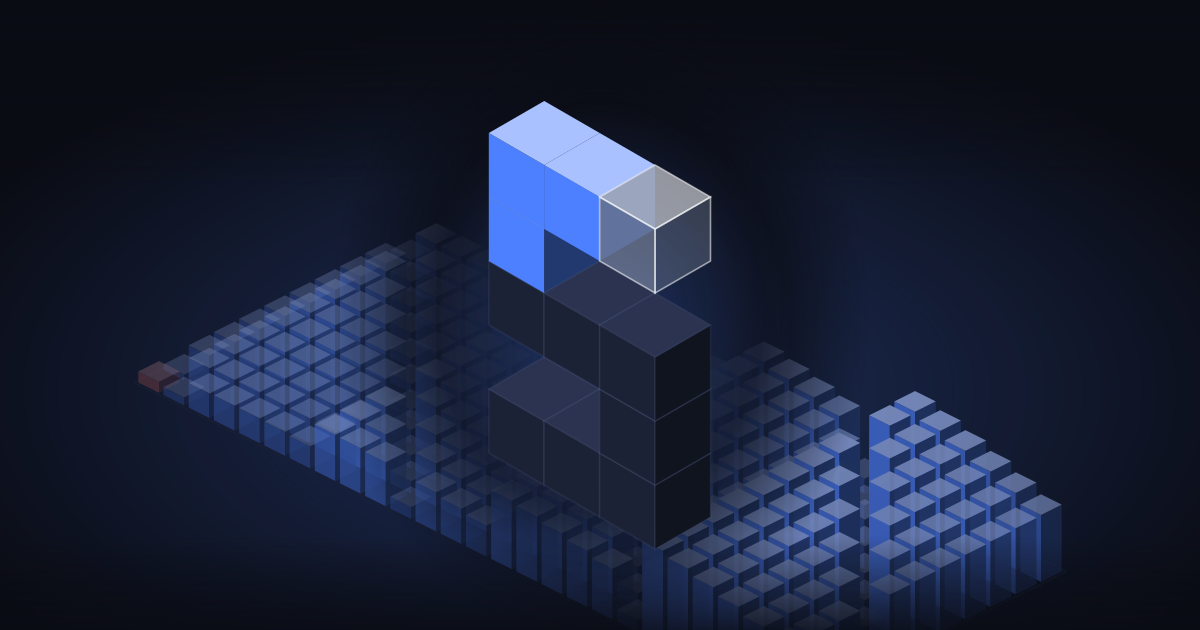
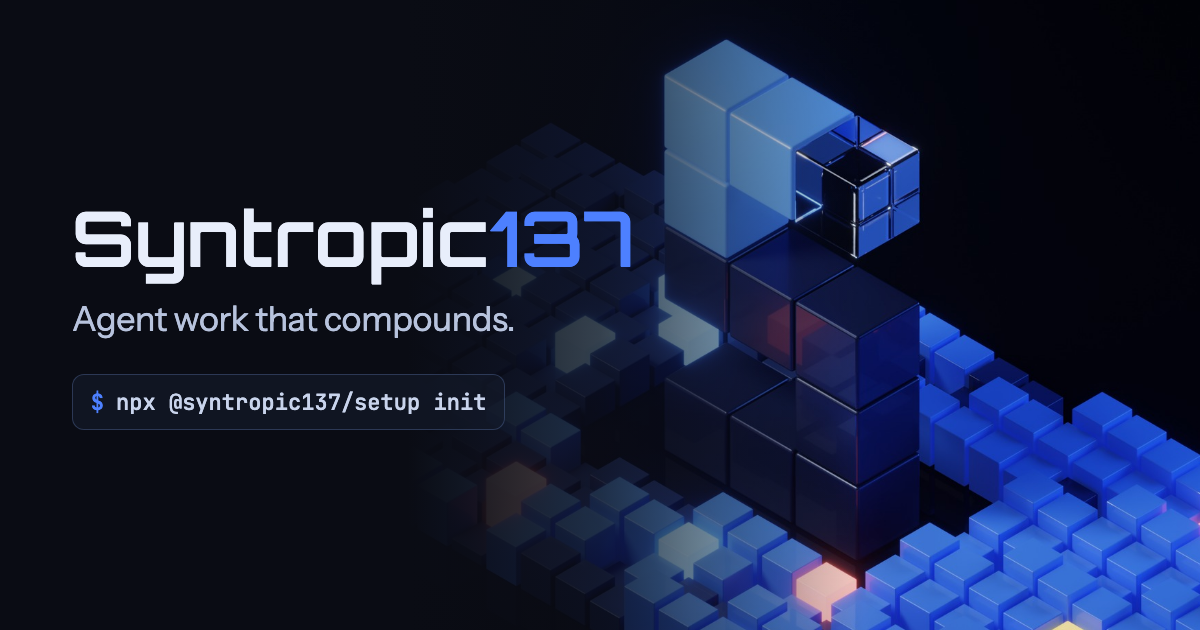
feat(brand): share image from the Blender render with the wordmark (kit 2.3.0)
og-image.png (1200x630) and the GitHub social preview (1280x640) are now
the Blender render of the S in the run city with 'Syntropic137', 'Agent
work that compounds.' and the install command, rendered from
design/brand/og/og.html with the real fonts by og/render.sh. The landing
page serves the new image; og:image alt text updated. The text-free
vector version moves to og-image-vector.*.

diff --git a/design/brand/og/og.html b/design/brand/og/og.html
@@ -1,0 +1,36 @@
+<!doctype html>
+<!-- Social share image (Open Graph / Twitter card), brand kit 2.3.0.
+     Render with design/brand/og/render.sh; size comes from ?w=&h= (default 1200x630).
+     The render is the Blender hero still (assets/blender-hero/stills/syn137-hero-4k-dark.png in the
+     system monorepo), downsized to hero-1920.jpg. Fonts are the landing page's self-hosted woff2. -->
+<meta charset="utf-8">
+<style>
+@font-face{font-family:Orbitron;src:url(../../../apps/syn-landing/public/fonts/orbitron-latin.woff2) format("woff2");font-weight:400 900}
+@font-face{font-family:"Instrument Sans";src:url(../../../apps/syn-landing/public/fonts/instrument-sans-latin.woff2) format("woff2");font-weight:400 700}
+@font-face{font-family:"JetBrains Mono";src:url(../../../apps/syn-landing/public/fonts/jetbrains-mono-latin.woff2) format("woff2");font-weight:400 800}
+*{margin:0;box-sizing:border-box}
+html,body{background:#0A0C14;overflow:hidden}
+.card{position:relative;overflow:hidden;background:#0A0C14;color:#E8EEFB;font-family:"Instrument Sans",sans-serif}
+.render{position:absolute;right:-20.8%;top:-6.3%;height:117.5%}
+.fade{position:absolute;inset:0;background:linear-gradient(90deg,#0A0C14 0%,#0A0C14 34%,rgba(10,12,20,.75) 50%,rgba(10,12,20,0) 72%)}
+.copy{position:absolute;left:6%;top:0;bottom:0;display:flex;flex-direction:column;justify-content:center}
+.wm{font-family:Orbitron;font-weight:600;letter-spacing:.01em;line-height:1;font-size:calc(var(--h) * .1206)}
+.wm b{color:#4D80FF;font-weight:600}
+.tag{font-size:calc(var(--h) * .054);color:#B7C3DD;letter-spacing:-.01em;margin-top:calc(var(--h) * .035)}
+.cmd{font-family:"JetBrains Mono";font-weight:500;font-size:calc(var(--h) * .035);color:#C9D4EC;margin-top:calc(var(--h) * .054);display:inline-flex;gap:.55em;padding:.55em .8em;border:1px solid rgba(120,150,220,.28);border-radius:12px;background:rgba(20,26,44,.6)}
+.cmd i{color:#4D80FF;font-style:normal}
+</style>
+<div class="card" id="card">
+  <img class="render" src="hero-1920.jpg" alt="">
+  <div class="fade"></div>
+  <div class="copy">
+    <div class="wm">Syntropic<b>137</b></div>
+    <div class="tag">Agent work that compounds.</div>
+    <div><div class="cmd"><i>$</i>npx @syntropic137/setup init</div></div>
+  </div>
+</div>
+<script>
+  const q = new URLSearchParams(location.search), w = +(q.get('w') || 1200), h = +(q.get('h') || 630)
+  const c = document.getElementById('card'); c.style.width = w + 'px'; c.style.height = h + 'px'; c.style.setProperty('--h', h + 'px')
+  document.body.style.width = w + 'px'; document.body.style.height = h + 'px'
+</script>

diff --git a/apps/syn-landing/index.html b/apps/syn-landing/index.html
@@ -16,12 +16,12 @@
     <meta property="og:type" content="website" />
     <meta property="og:url" content="https://syntropic137.com/" />
     <meta property="og:site_name" content="Syntropic137" />
-    <!-- Social image: the S over the run city (design/brand/og-image.png) -->
+    <!-- Social image: Blender render + wordmark (design/brand/og-image.png, from design/brand/og/render.sh) -->
     <meta property="og:image" content="https://syntropic137.com/og-image.png" />
     <meta property="og:image:type" content="image/png" />
     <meta property="og:image:width" content="1200" />
     <meta property="og:image:height" content="630" />
-    <meta property="og:image:alt" content="The Syntropic137 S, built from cubes, over an isometric city of agent runs." />
+    <meta property="og:image:alt" content="Syntropic137: agent work that compounds. The cube S standing in an isometric city of agent runs." />
     <meta name="twitter:card" content="summary_large_image" />
     <meta name="twitter:site" content="@syntropic137" />
     <meta name="twitter:title" content="Syntropic137: MIT Agentic Engineering Platform" />
@@ -30,7 +30,7 @@
       content="Self-hosted agentic engineering platform. Run Claude Code and Codex agents in isolated Docker workspaces with full observability. Every decision permanently captured."
     />
     <meta name="twitter:image" content="https://syntropic137.com/og-image.png" />
-    <meta name="twitter:image:alt" content="The Syntropic137 S, built from cubes, over an isometric city of agent runs." />
+    <meta name="twitter:image:alt" content="Syntropic137: agent work that compounds. The cube S standing in an isometric city of agent runs." />
     <link rel="canonical" href="https://syntropic137.com/" />
     <!-- Icons from design/brand/ (the S mark) -->
     <link rel="icon" href="/favicon.ico" sizes="32x32" />

diff --git a/packages/syn-ui/skyline-core/scripts/og-image.ts b/packages/syn-ui/skyline-core/scripts/og-image.ts
@@ -1,8 +1,10 @@
 /**
- * Social image (Open Graph / Twitter card): the S over the run city, from
- * the same geometry the page uses (heroCity() with the hero's sample days,
- * sMark()). Writes design/brand/og-image.svg (1200 x 630) and renders
- * design/brand/og-image.png with rsvg-convert.
+ * Vector social image: the S over the run city, from the same geometry the
+ * page uses (heroCity() with the hero's sample days, sMark()). Writes
+ * design/brand/og-image-vector.svg (1200 x 630) and renders
+ * design/brand/og-image-vector.png with rsvg-convert. The live share image
+ * (og-image.png) is the Blender render with the wordmark, from
+ * design/brand/og/render.sh.
  *
  *   pnpm --filter @syn137/skyline-core run og-image
  *
@@ -62,8 +64,8 @@ ${cityBlocks}
 `
 
 const brand = resolve(dirname(fileURLToPath(import.meta.url)), '../../../../design/brand')
-const svgPath = resolve(brand, 'og-image.svg')
-const pngPath = resolve(brand, 'og-image.png')
+const svgPath = resolve(brand, 'og-image-vector.svg')
+const pngPath = resolve(brand, 'og-image-vector.png')
 writeFileSync(svgPath, svg)
 execFileSync('rsvg-convert', ['-w', String(W), '-h', String(H), svgPath, '-o', pngPath])
 console.log(`wrote ${svgPath}\nwrote ${pngPath}`)

diff --git a/design/brand/BRAND.md b/design/brand/BRAND.md
@@ -1,6 +1,6 @@
 # Syntropic137 brand kit
 
-**Version 2.2.0, "Design V2, October 2026". Released 2026-10-09, avatar added 2026-10-10, banner layout and S uplight locked 2026-10-10.** Version in [`VERSION`](VERSION), history in [`CHANGELOG.md`](CHANGELOG.md).
+**Version 2.3.0, "Design V2, October 2026". Released 2026-10-09, avatar added 2026-10-10, banner layout and S uplight locked 2026-10-10, share image 2026-10-13.** Version in [`VERSION`](VERSION), history in [`CHANGELOG.md`](CHANGELOG.md).
 
 <p align="center">
   <img src="renders/syn137-banner-dark-1500.webp" alt="The Syntropic137 S standing in the run city, rendered in Blender" width="100%">
@@ -206,7 +206,7 @@ Full usage and fields: [`banners/README.md`](banners/README.md).
 
 ### Social image (Open Graph, Twitter card)
 
-[`og-image.png`](og-image.png) (1200 x 630, from [`og-image.svg`](og-image.svg)): the S over the run city, generated from `heroCity()` and `sMark()` by `pnpm --filter @syn137/skyline-core run og-image`. No text.
+[`og-image.png`](og-image.png) (1200 x 630): the Blender render of the S in the run city, with the wordmark, "Agent work that compounds." and the install command. Source: [`og/og.html`](og/og.html), rendered with real fonts by [`og/render.sh`](og/render.sh) (also writes the 1280 x 640 GitHub social preview and the copy in `apps/syn-landing/public/`). The older text-free vector version is [`og-image-vector.png`](og-image-vector.png), from `pnpm --filter @syn137/skyline-core run og-image`.
 
 ### Favicon and app icons
 
@@ -256,7 +256,7 @@ Every current v2 asset. Raw URLs on `main` (for use outside GitHub) take the for
 | [`avatar-transparent-1024.png`](avatar-transparent-1024.png) | <img src="avatar-transparent-512.png" alt="Avatar, transparent" height="64"> | [raw](https://raw.githubusercontent.com/syntropic137/syntropic137/main/design/brand/avatar-transparent-1024.png) |
 | [`avatar-transparent-512.png`](avatar-transparent-512.png) | | [raw](https://raw.githubusercontent.com/syntropic137/syntropic137/main/design/brand/avatar-transparent-512.png) |
 | [`social/`](social/) | Upload-ready files per place (see the table at the top) | |
-| [`og-image.svg`](og-image.svg) | | [raw](https://raw.githubusercontent.com/syntropic137/syntropic137/main/design/brand/og-image.svg) |
+| [`og-image-vector.svg`](og-image-vector.svg), [`og-image-vector.png`](og-image-vector.png) | Text-free vector version | |
 | [`og-image.png`](og-image.png) | <img src="og-image.png" alt="Social image" height="96"> | [raw](https://raw.githubusercontent.com/syntropic137/syntropic137/main/design/brand/og-image.png) |
 
 ### Renders (web cuts of the Blender stills)
@@ -327,6 +327,6 @@ Full-resolution PNG and ProRes masters live in the private system monorepo, `ass
 ## How to change the brand
 
 1. Edit the source, never the output: tokens in `packages/syn-ui/themes/src/`, geometry in `sMark.ts`, banners in `banners/repos.json`, renders through `build_hero.py`.
-2. Regenerate: icons with `rsvg-convert` (see [`README.md`](README.md)), `og-image` and `repo-banner` with pnpm, renders on the Mac mini, then cut new `renders/*.webp` from the masters.
+2. Regenerate: icons with `rsvg-convert` (see [`README.md`](README.md)), `og/render.sh` for the share image, `og-image` (vector) and `repo-banner` with pnpm, renders on the Mac mini, then cut new `renders/*.webp` from the masters.
 3. Bump [`VERSION`](VERSION) (semver): major for a new identity, minor for a new asset or surface, patch for a fix.
 4. Add an entry to [`CHANGELOG.md`](CHANGELOG.md).

diff --git a/design/brand/README.md b/design/brand/README.md
@@ -12,7 +12,8 @@ The S mark: eleven isometric cubes in one vertical plane, grid `BBG / B.. / DDD 
 | `favicon.svg`, `favicon-32x32.png` | Browser tab icon, transparent, square viewBox around the mark |
 | `app-icon.svg` | Mark on the ground colour (`--ds-color-bg`, `#0A0C14`), source for the raster icons below |
 | `apple-touch-icon.png` (180), `icon-192.png`, `icon-512.png` | iOS home screen and PWA manifest icons |
-| `og-image.svg`, `og-image.png` (1200 x 630) | Social image (Open Graph, Twitter card): the S over the run city. Generated, don't edit by hand. |
+| `og-image.png` (1200 x 630) | Social share image (Open Graph, Twitter card): Blender render + wordmark. Render with `og/render.sh`. |
+| `og-image-vector.svg`, `og-image-vector.png` | Text-free vector version: the S over the run city. Generated, don't edit by hand. |
 | `banners/<repo>.svg` (1200 x 400) | README banner per org repo, fonts embedded. Generated from `banners/repos.json`; see `banners/README.md`. |
 
 Regenerate the PNGs with `rsvg-convert`:

diff --git a/design/brand/CHANGELOG.md b/design/brand/CHANGELOG.md
@@ -2,6 +2,10 @@
 
 Versions follow semver: major for a new identity, minor for a new asset or surface, patch for a fix. The current kit is described in [BRAND.md](BRAND.md).
 
+## 2.3.0 (2026-10-13)
+
+- **Share image.** `og-image.png` is now the Blender render of the S in the run city with the wordmark, tagline and install command (`og/og.html`, rendered by `og/render.sh` with the real fonts). Same layout at 1280 x 640 for the GitHub social preview. The text-free vector version moves to `og-image-vector.*`.
+
 ## 2.2.0 (2026-10-10)
 
 - **Banners: one centre line.** The S and the title's cap box share the card's vertical centre; the S plus the text column is centred horizontally.
